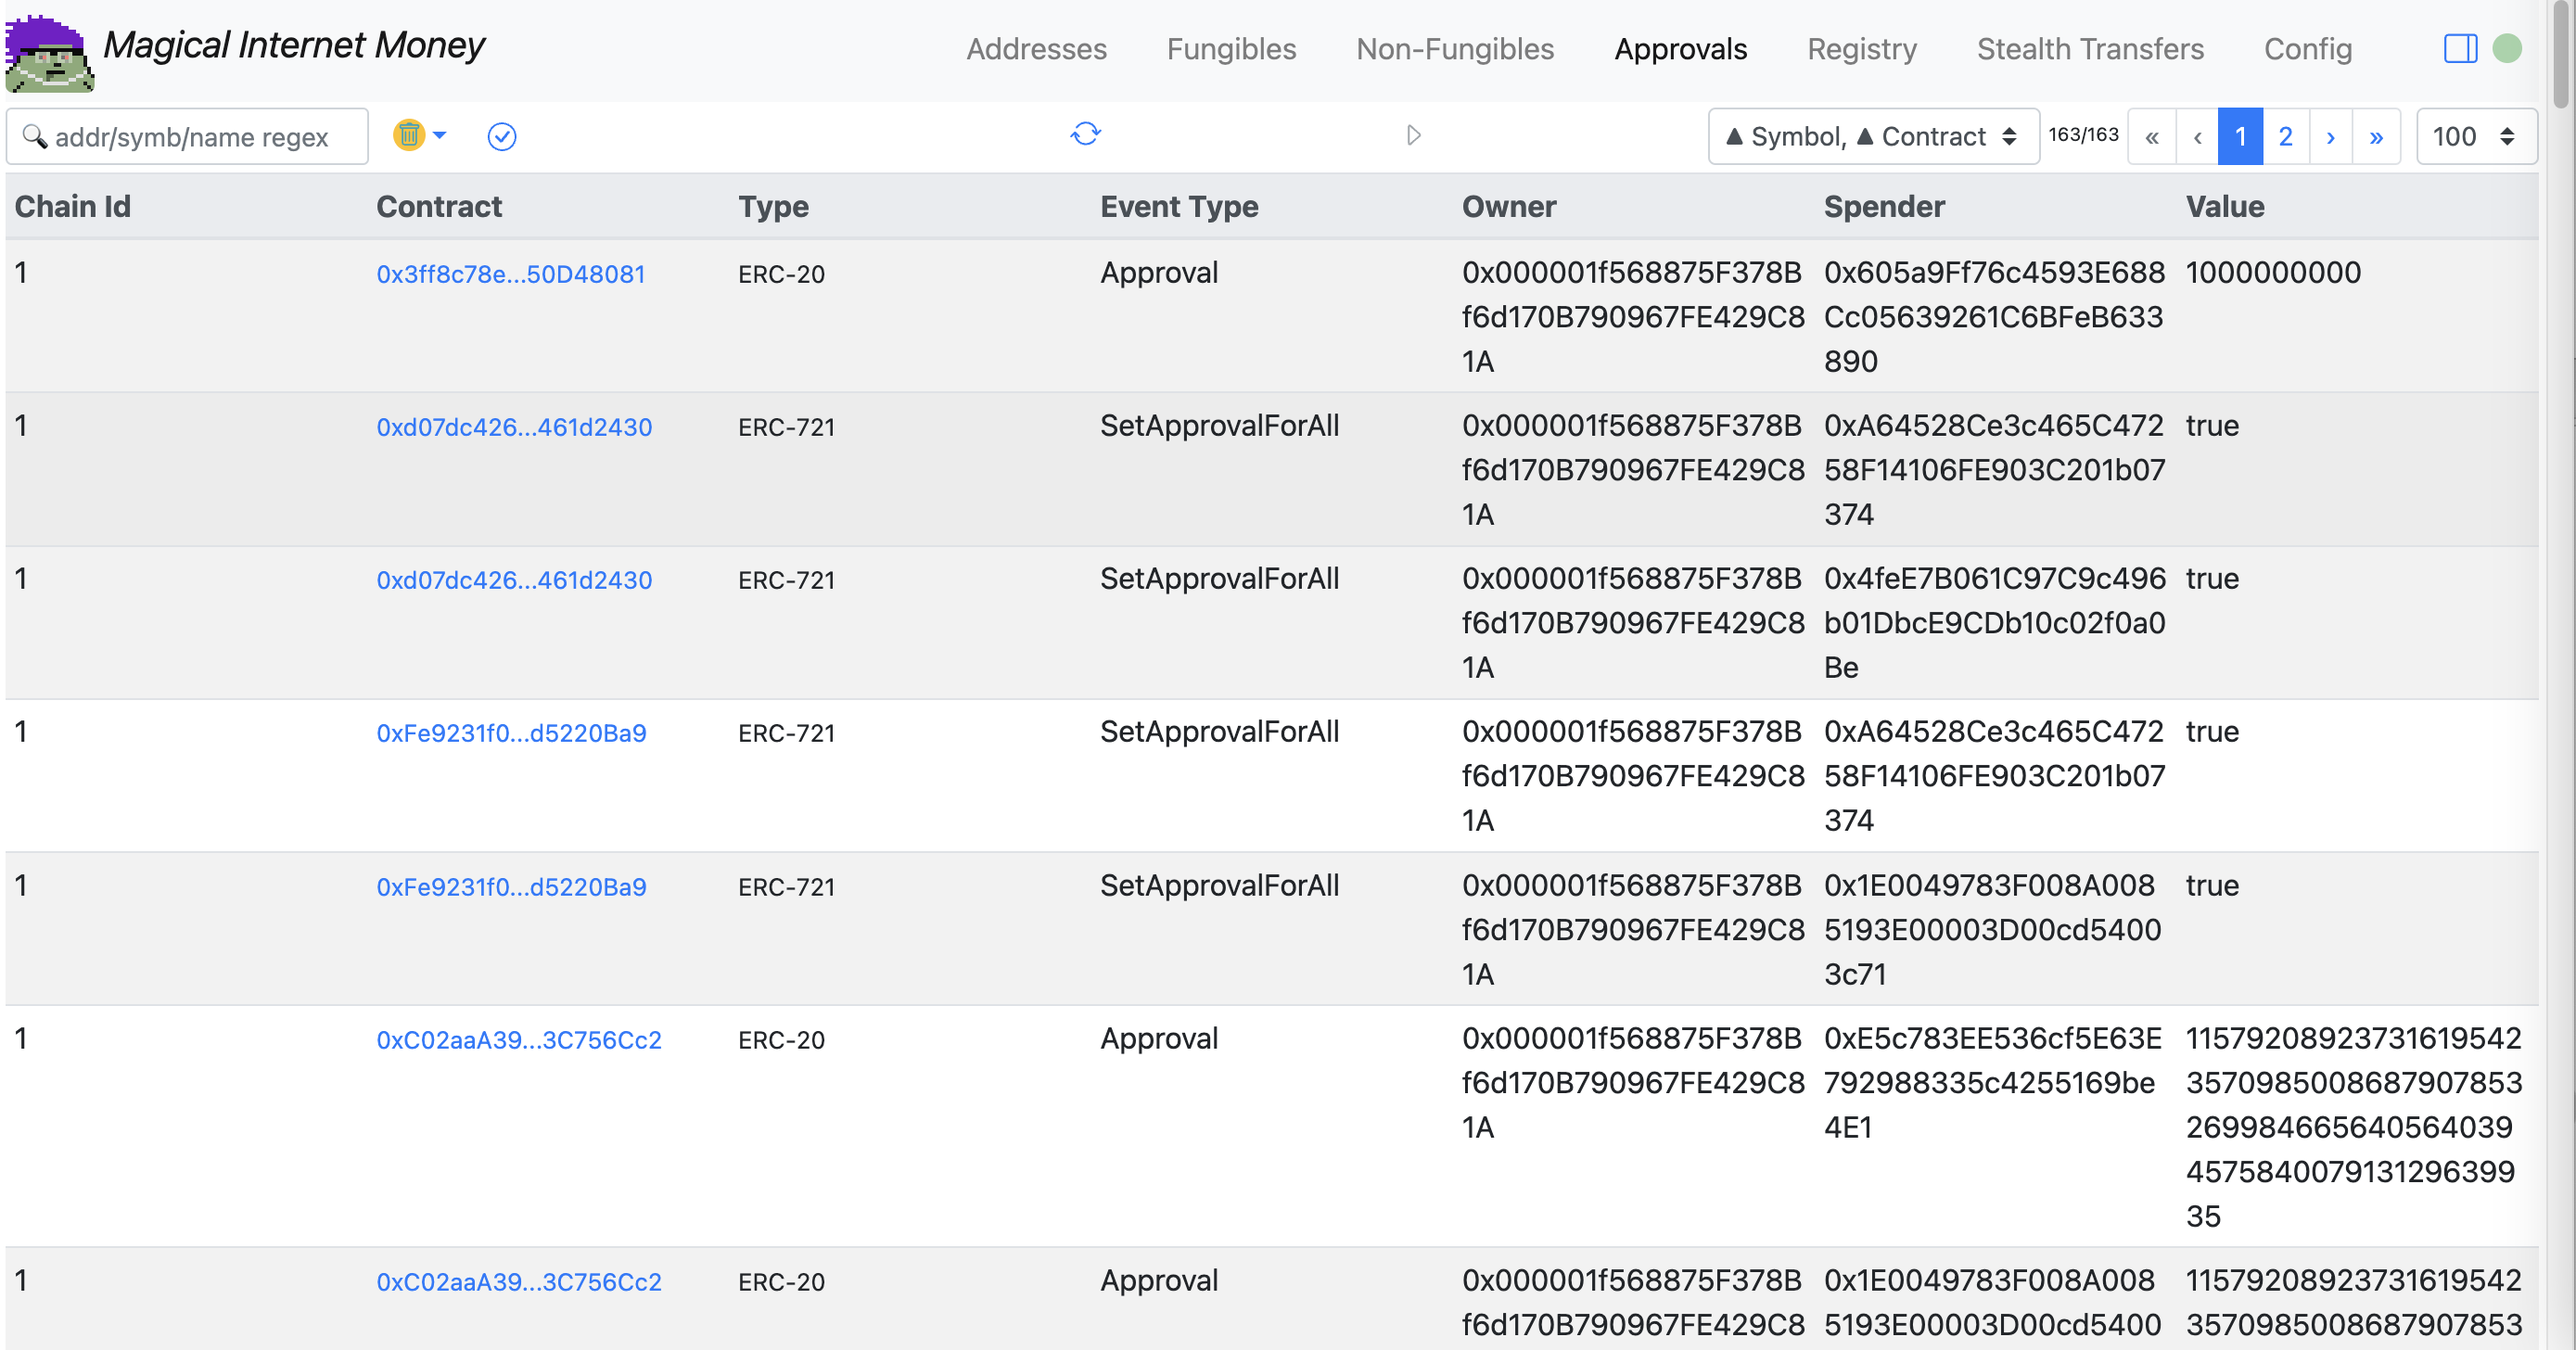
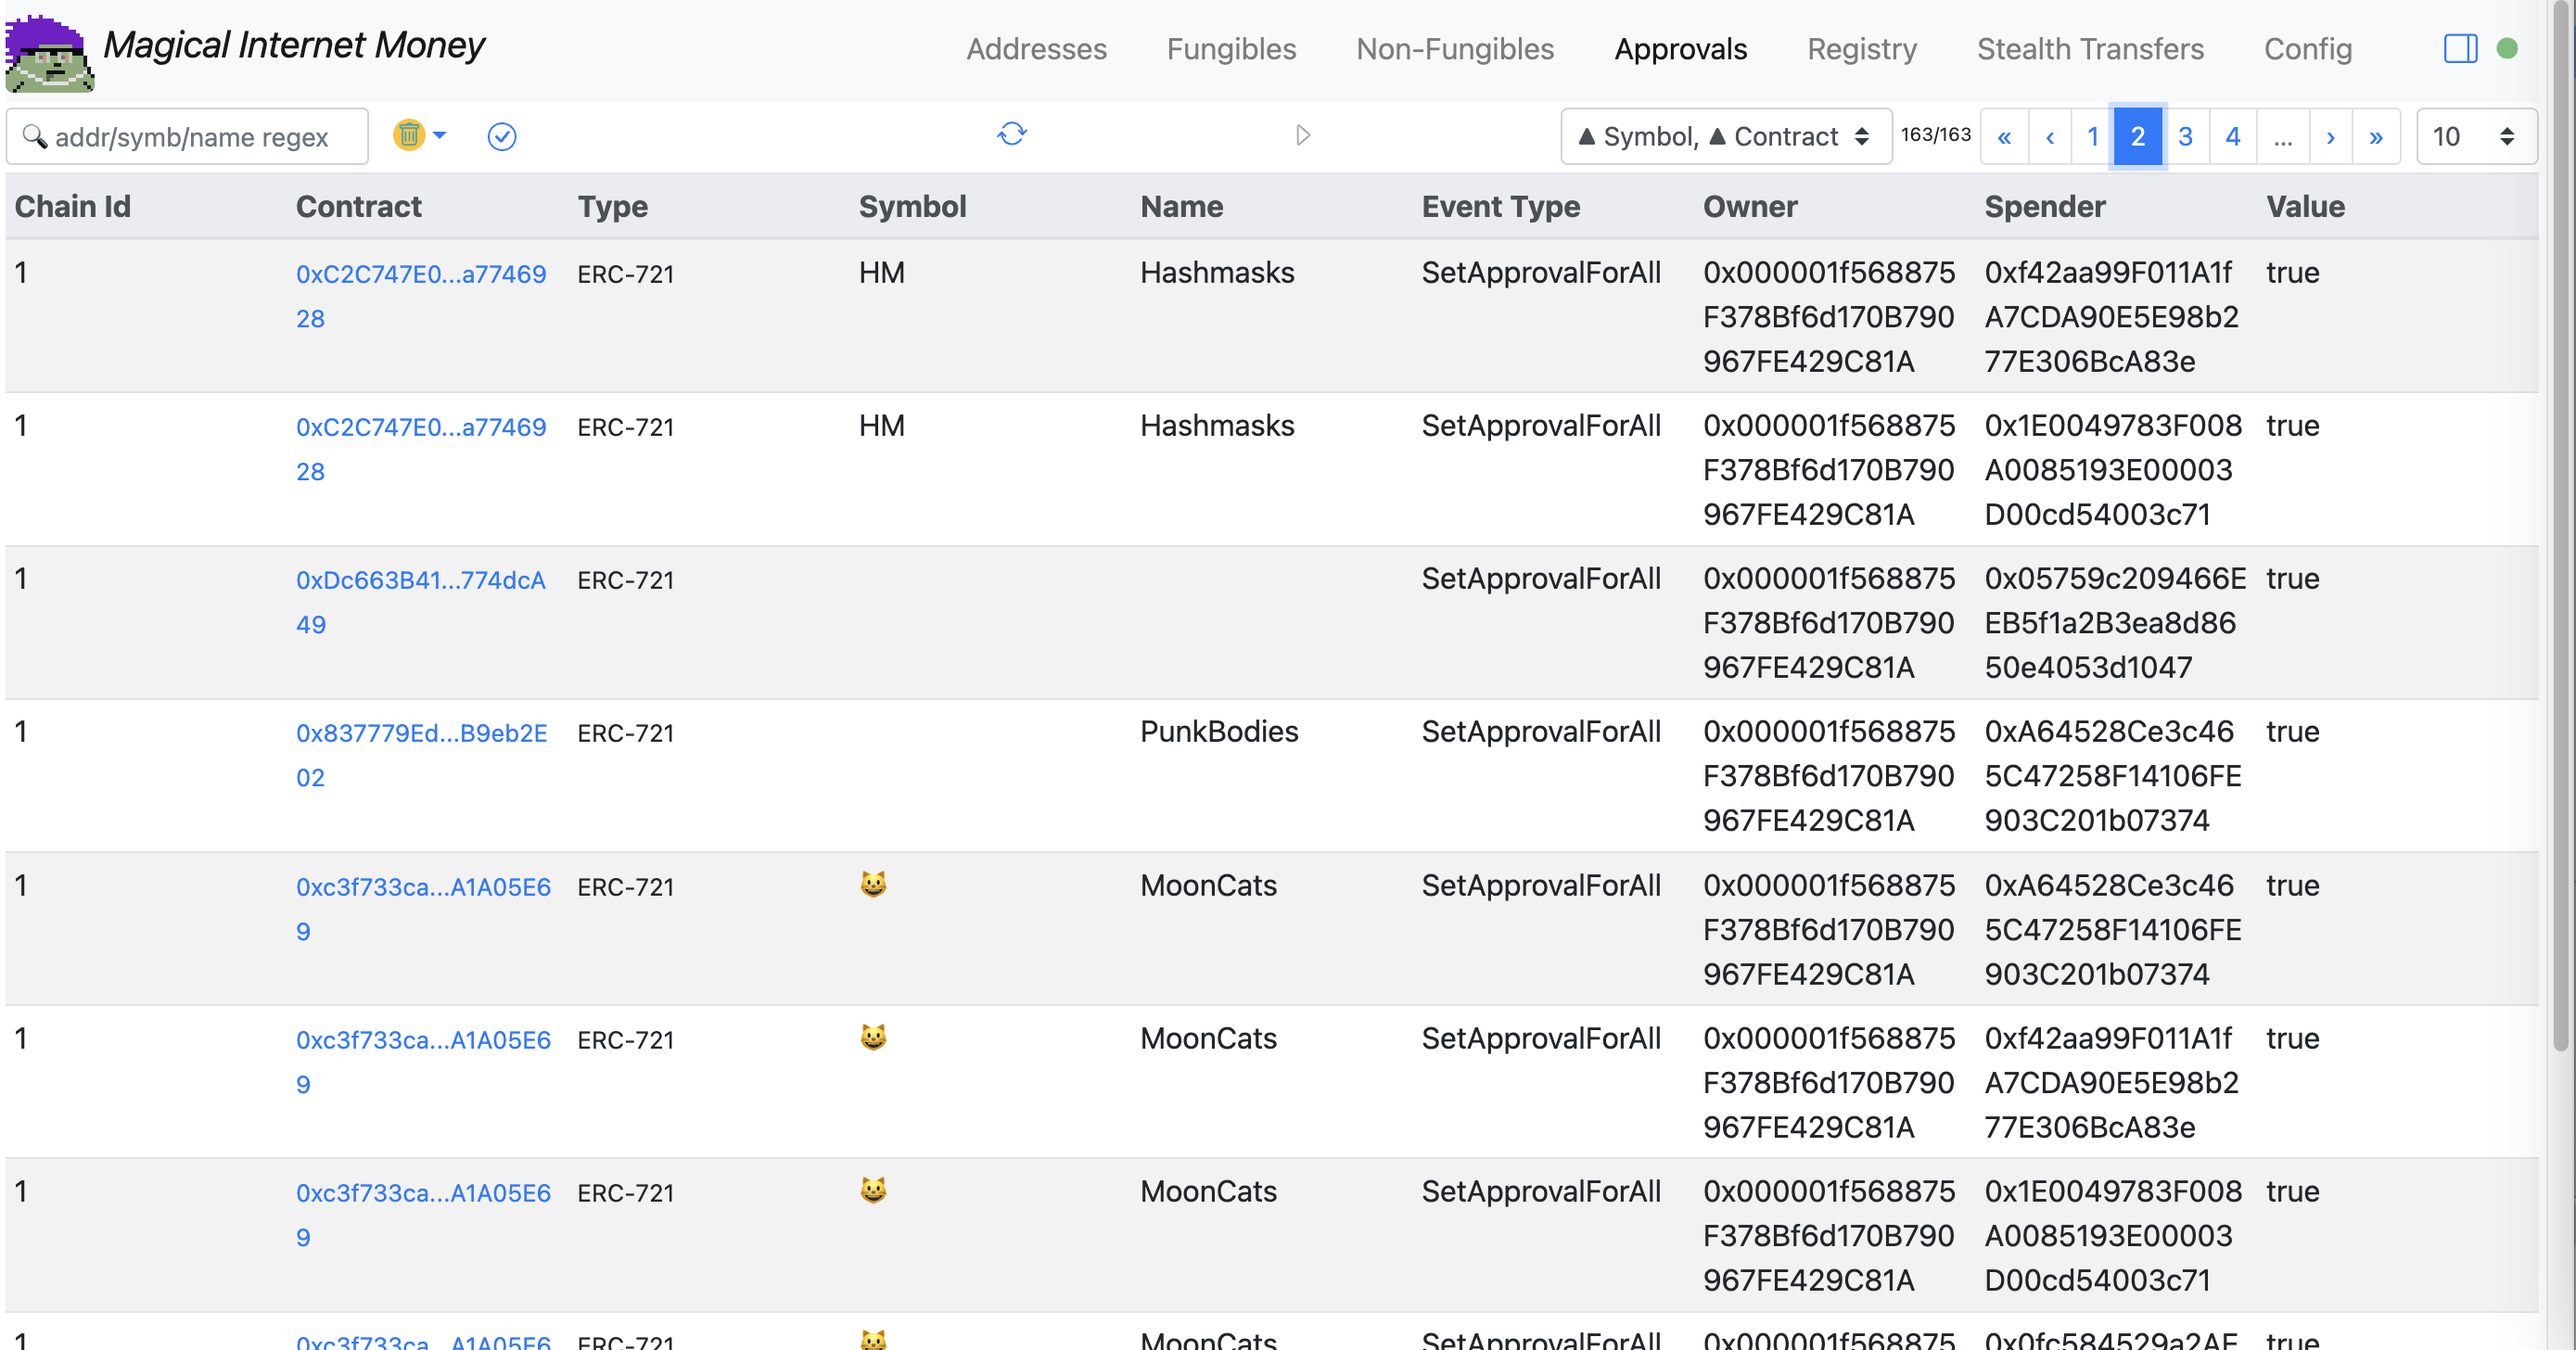
approvals wip

diff --git a/docs/approvals.js b/docs/approvals.js
@@ -296,17 +296,20 @@ const Approvals = {
       }
       for (const [owner, ownerData] of Object.entries(this.approvals[this.chainId] || {})) {
         for (const [contract, contractData] of Object.entries(ownerData)) {
-          const type = this.tokens[this.chainId] && this.tokens[this.chainId][contract] && this.tokens[this.chainId][contract].type || null;
+          const token = this.tokens[this.chainId] && this.tokens[this.chainId][contract] || null;
+          const type = token && token.type || null;
+          const symbol = token && token.symbol || null;
+          const name = token && token.name || null;
           if (type == "erc20") {
             for (const [spender, value] of Object.entries(contractData)) {
-              results.push({ chainId: this.chainId, contract, type, eventType: "Approval", owner, spender, value });
+              results.push({ chainId: this.chainId, contract, type, symbol, name, eventType: "Approval", owner, spender, value });
             }
           } else {
             for (const [tokenId, spender] of Object.entries(contractData.tokens)) {
-              results.push({ chainId: this.chainId, contract, type, eventType: "Approval", owner, spender, value: tokenId });
+              results.push({ chainId: this.chainId, contract, type, symbol, name, eventType: "Approval", owner, spender, value: tokenId });
             }
             for (const [spender, approved] of Object.entries(contractData.approvalForAll)) {
-              results.push({ chainId: this.chainId, contract, type, eventType: "SetApprovalForAll", owner, spender, value: approved });
+              results.push({ chainId: this.chainId, contract, type, symbol, name, eventType: "SetApprovalForAll", owner, spender, value: approved });
             }
           }
         }
